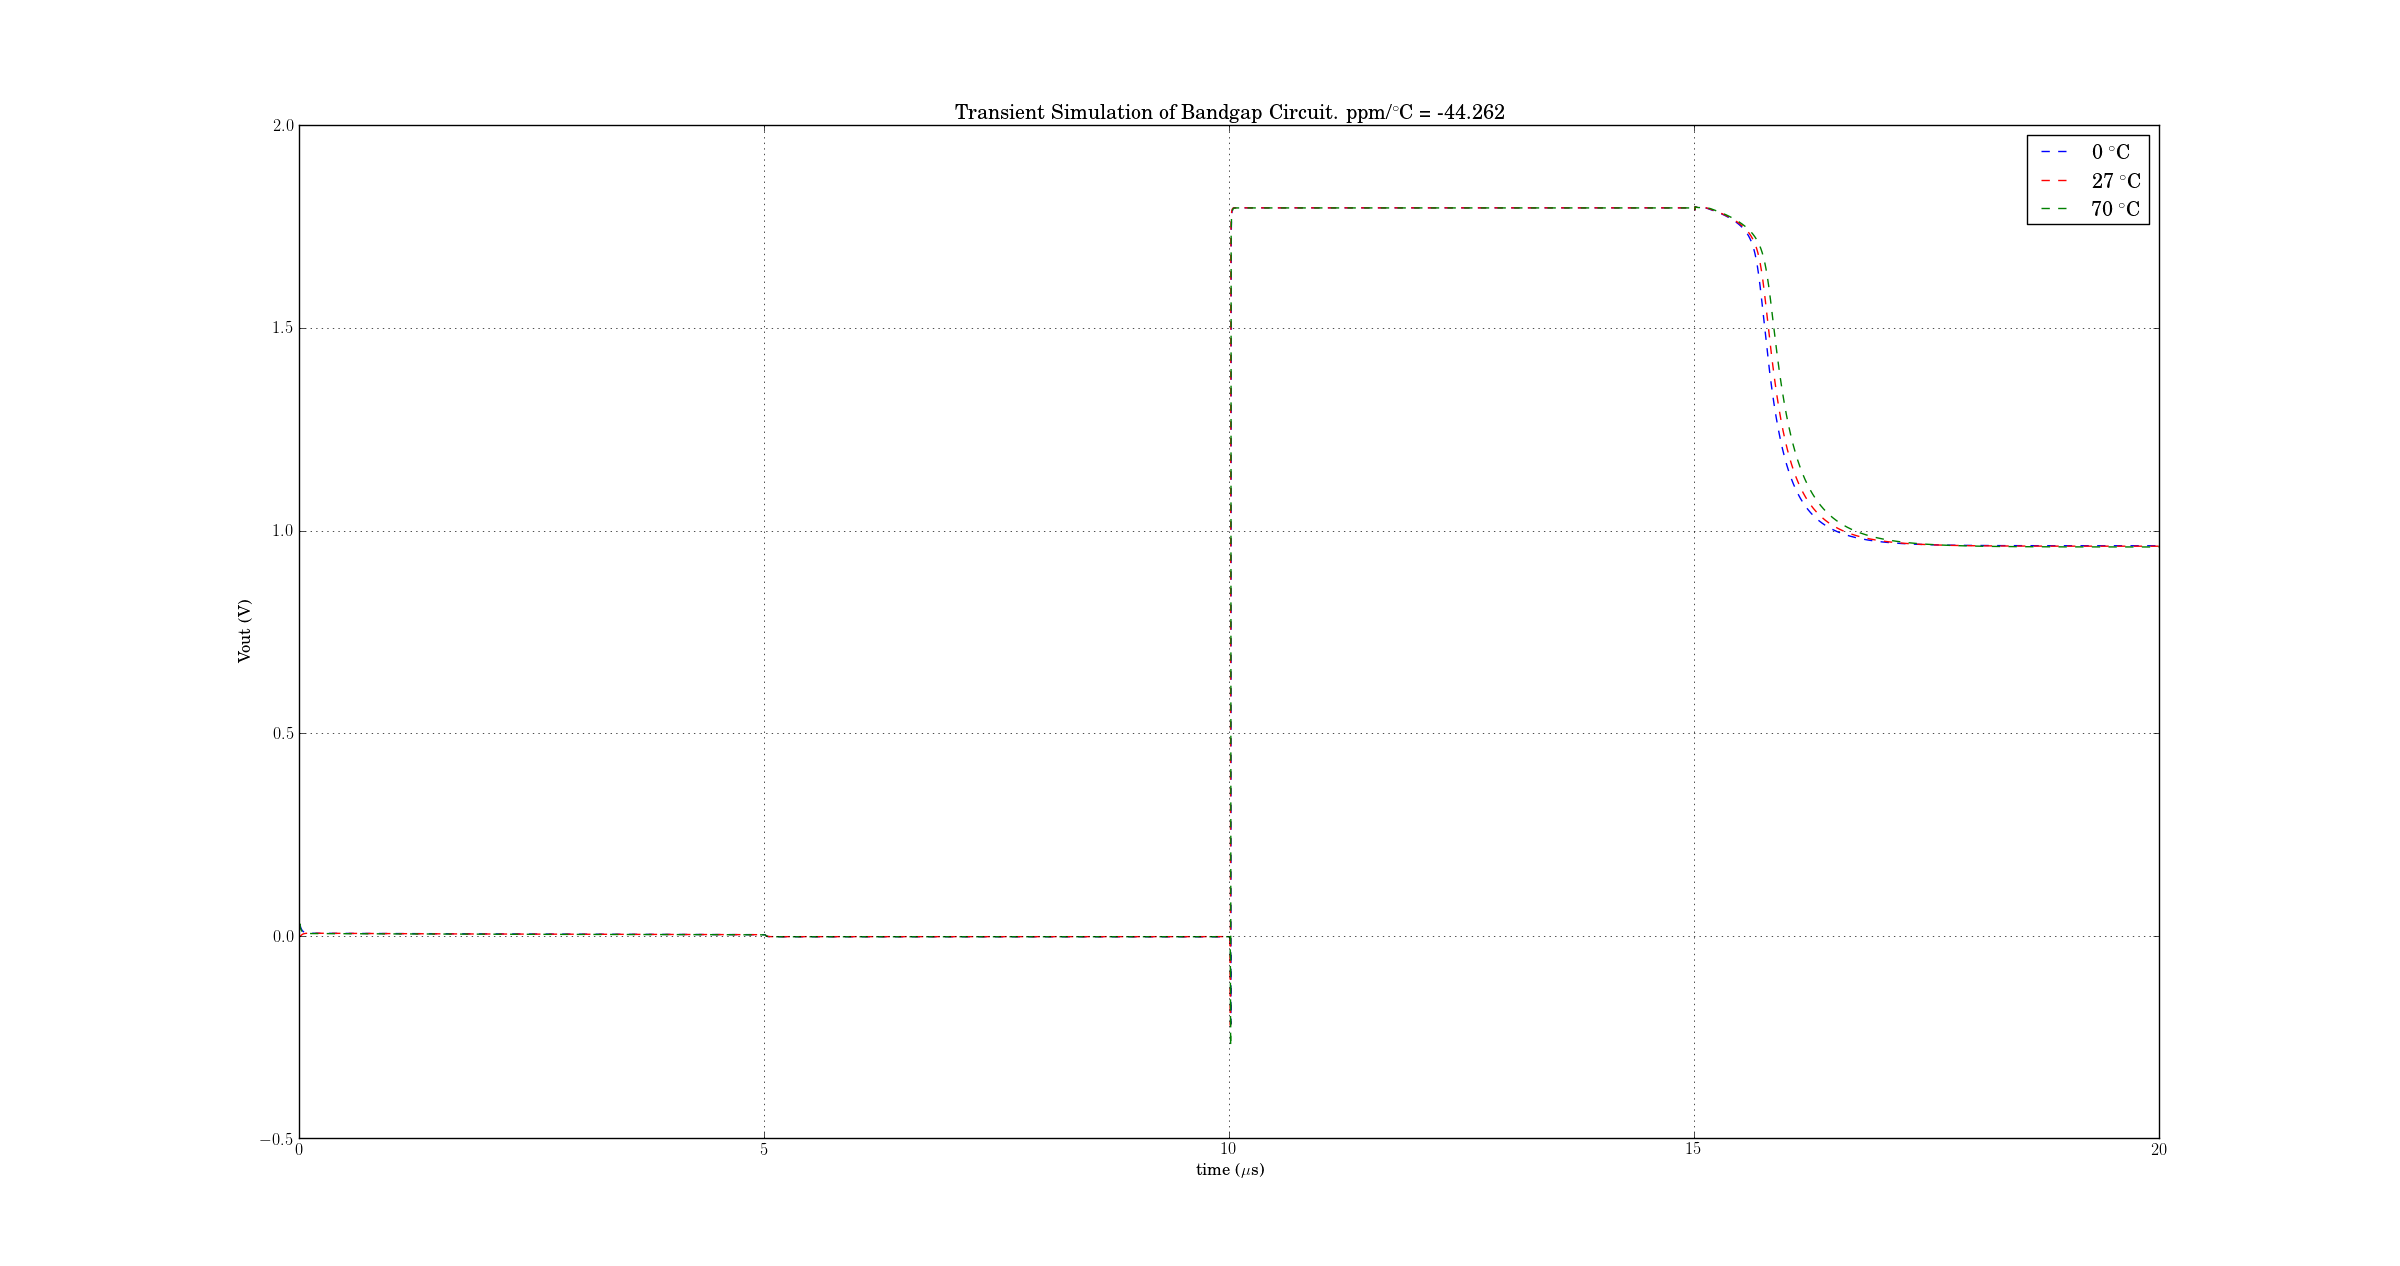
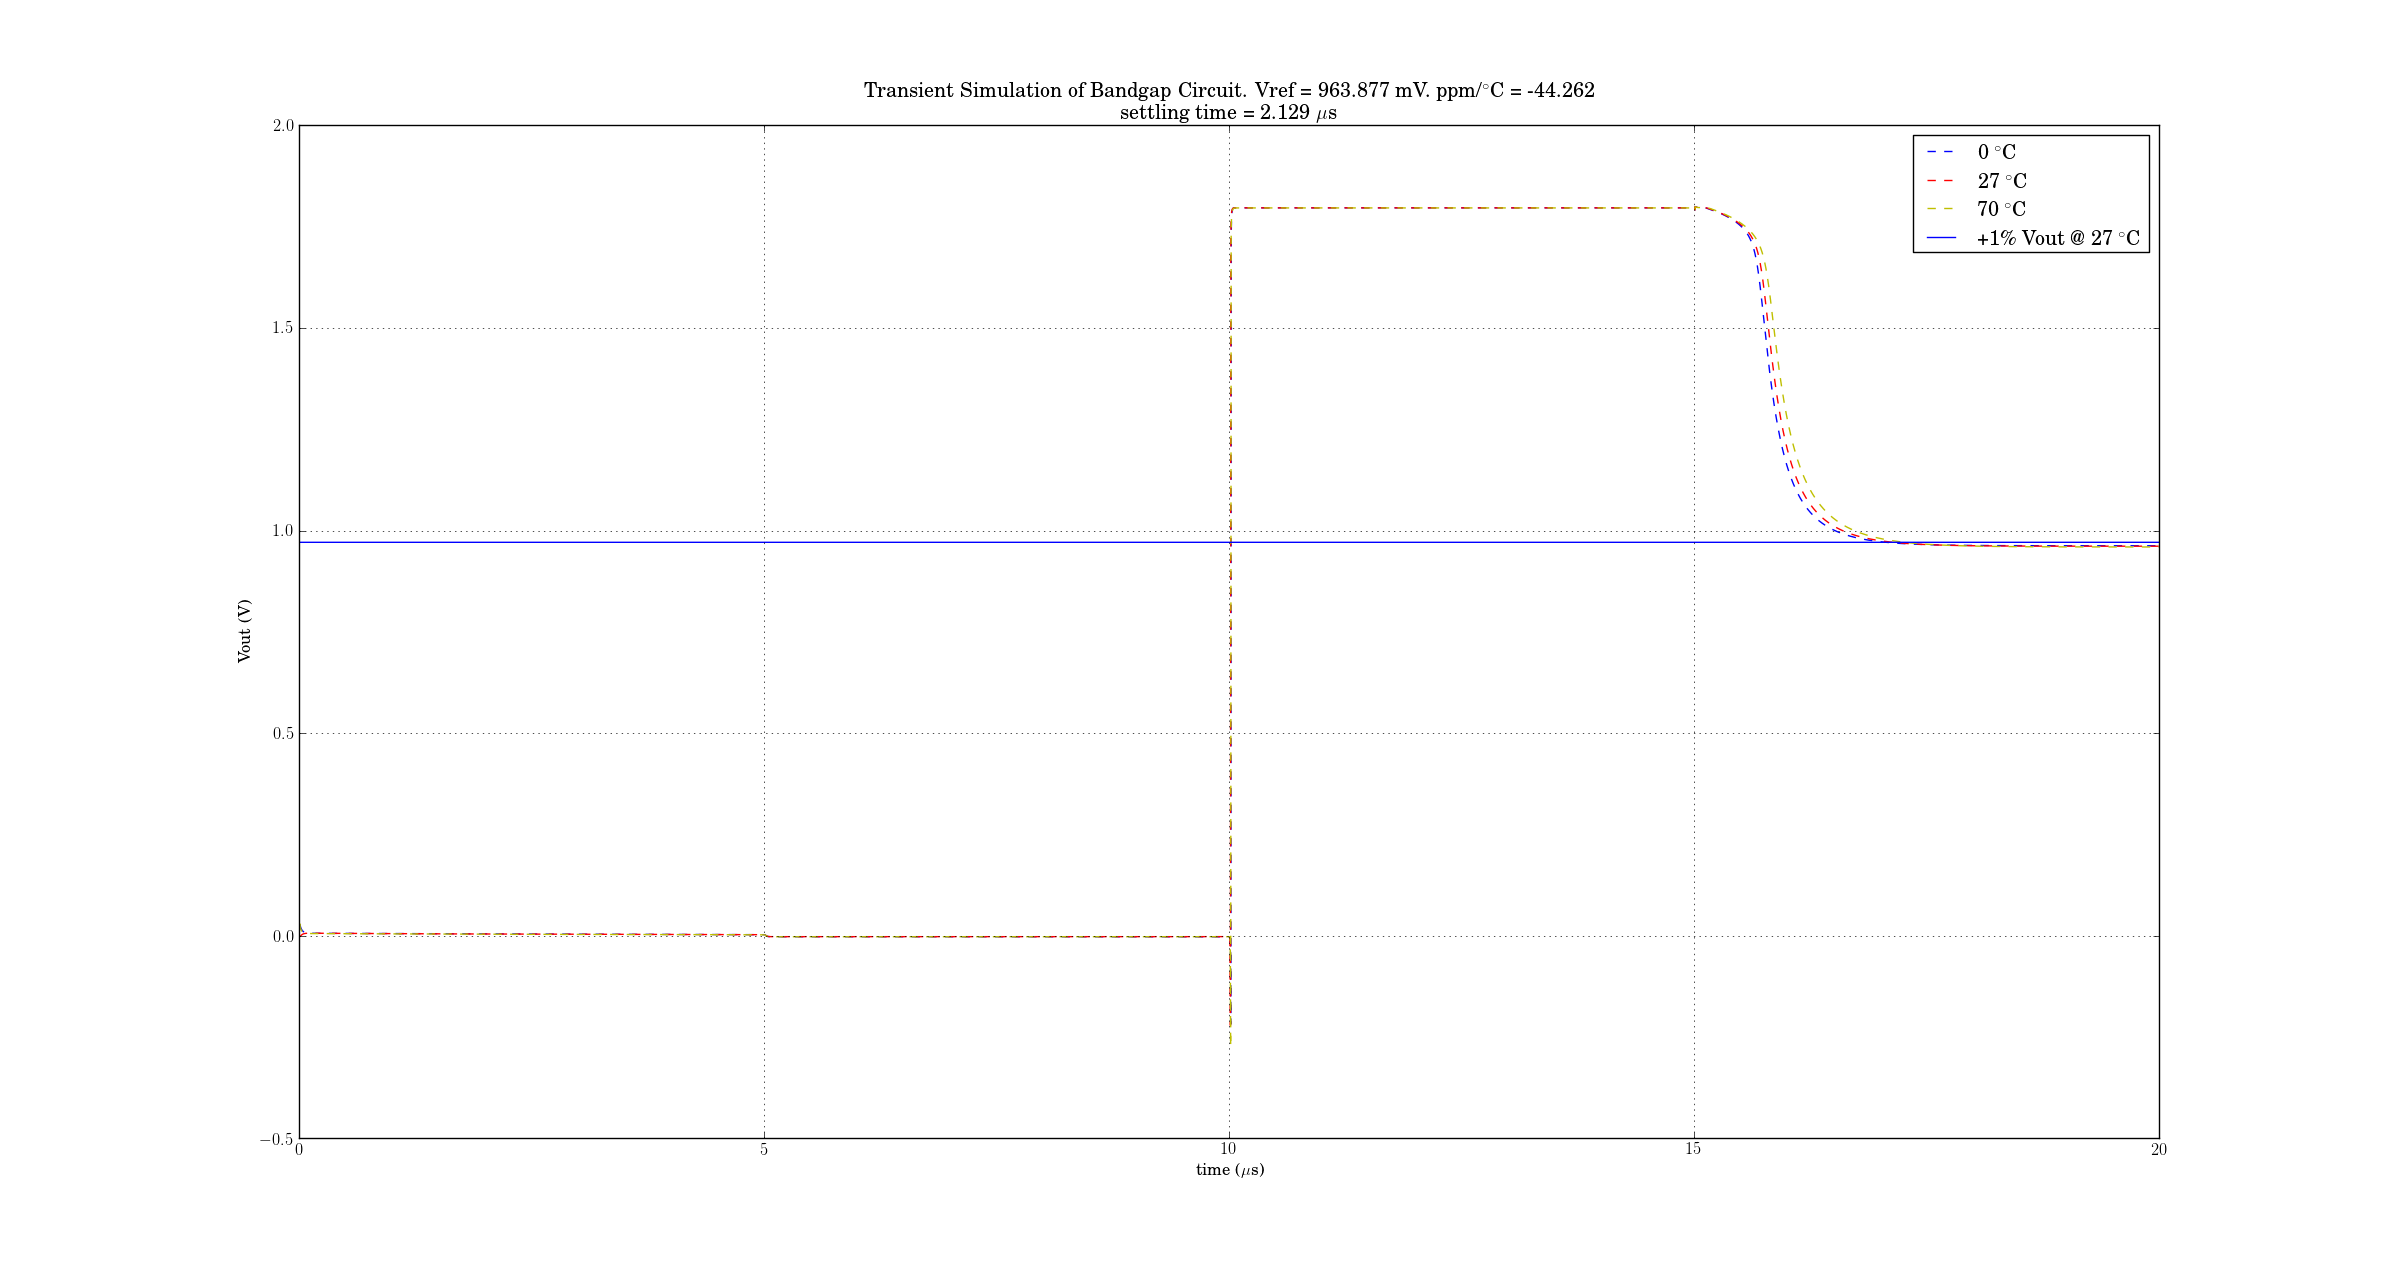
updated plots

Changed region(s): [[0.375, 0.0616, 0.6562, 0.0924], [0.8125, 0.154, 0.9062, 0.2156], [0.8125, 0.0924, 0.8438, 0.1232]]

diff --git a/simulation_post_processing/ppm.py b/simulation_post_processing/ppm.py
@@ -4,6 +4,7 @@ import spice3read as s3r
 import numpy as np
 import matplotlib.pyplot as plt
 from matplotlib import rc
+from scipy import interpolate
 
 rc('text', usetex=True)
 rc('font', family='serif')
@@ -21,22 +22,24 @@ print('{} {} {}'.format(vbg0, vbg27, vbg70))
 print(ppm)
 times = [tran0['time'][0], tran27['time'][0], tran70['time'][0]]
 maxtime = times[np.asarray([len(x) for x in times]).argmax()]
-
 tranvbg27 = np.interp(maxtime, times[1], tran27['v(vbg)'][0])
 tranvbg0 = np.interp(maxtime, times[0], tran0['v(vbg)'][0])
 tranvbg70 = np.interp(maxtime, times[2], tran70['v(vbg)'][0])
 
-# settletime27indx = (np.abs(0.95*vbg27 - tranvbg27)/[maxtime*1e6 >= 15.0]).argmin()
-# settletime27 = maxtime[settletime27indx]*1e6 - 15.0 # in microseconds
+settletime27indx = np.abs(tranvbg27[np.where(maxtime >= 15.0e-6)]/vbg27 - 1.01).argmin()
+settletime27 = maxtime[np.where(maxtime >= 15.0e-6)][settletime27indx] - 15.0e-6
 
 fig = plt.figure()
 ax = fig.add_subplot(111)
 ax.plot(maxtime*1e6, tranvbg0, '--b' , label=r'0 $^\circ$C')
 ax.plot(maxtime*1e6, tranvbg27, '--r' , label=r'27 $^\circ$C')
-ax.plot(maxtime*1e6, tranvbg70, '--g' , label=r'70 $^\circ$C')
+ax.plot(maxtime*1e6, tranvbg70, '--y' , label=r'70 $^\circ$C')
+ax.plot(maxtime*1e6, np.ones(len(maxtime))*1.01*vbg27, label='+1\% Vout @ 27 $^\circ$C')
 ax.set_xlabel(r"time ($\mu$s)")
 ax.set_ylabel('Vout (V)')
-ax.set_title(r"Transient Simulation of Bandgap Circuit. Vref = {} mV. ppm/$^\circ$C = {}".format(np.around(vbg27*1e3, 3), np.around(ppm,3)))
+ax.set_title(r"Transient Simulation of Bandgap Circuit. Vref = {} mV. ppm/$^\circ$C = {}"
+"\n"
+"settling time = {} $\mu$s".format(np.around(vbg27*1e3, 3), np.around(ppm,3), np.around(settletime27*1e6,3)))
 plt.legend()
 plt.grid()
 plt.show()

diff --git a/simulation_post_processing/variations.py b/simulation_post_processing/variations.py
@@ -35,15 +35,17 @@ fig, ax = plt.subplots()
 for i, vdd in enumerate(vdds):
     ax.plot(maxtime*1e6, vbgs_interpd[i])
 
+vddvarplus = np.max(vdds)/1.8 - 1.0
+vddvarminus = 1.0 - np.min(vdds)/1.8
 ax.grid()
 label=np.around(vdd, 3)
 ax.set_title(r"Transient simulation (n = {})."
 "\n"  
-r"{} $\leq$ Vdd $\leq$ {}"
+r"1.8 - {}\% $\leq$ Vdd $\leq$ 1.8 + {}\%"
 "\n"
 r"$\mu$ = {} mV. $\sigma$ = {} mV"
 "\n"
-"Temperature = 0, 27, 70 $^\circ$C".format(len(vdds), np.around(np.min(vdds), 4), np.around(np.max(vdds), 4), np.around(mean_vbgs*1e3,3), np.around(std_vbgs*1e3,3)))
+"Temperature = 0, 27, 70 $^\circ$C".format(len(vdds), np.around(vddvarplus*100, 4), np.around(vddvarminus*100, 4), np.around(mean_vbgs*1e3,3), np.around(std_vbgs*1e3,3)))
 ax.set_xlabel(r"Time ($\mu$s)")
 ax.set_ylabel('Vout (V)')
 plt.show()
